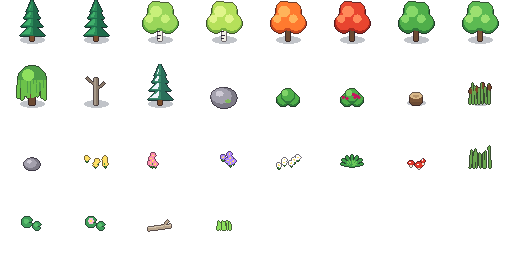
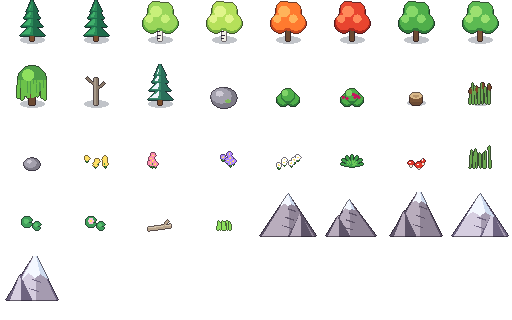
Style polish: mountain peaks, visible treasure shimmer, softer lights
- Rocky and snow-capped peak sprites fill mountain and snow tiles so
  impassable ranges read clearly; warmer, darker mountain ground.
- Treasure sparkles are larger and gold with a pulsing ground glow, so
  they stand out on bright grass.
- Sun glints are sparser and limited to deeper water.
- Campfire, store and lantern lights toned down (no more blow-out).
- Screenshot run adds a mountain view.

Claude-Session: https://claude.ai/code/session_011U55ru6jWp7NoTiif2KdmA

diff --git a/tools/gen_art.py b/tools/gen_art.py
@@ -257,11 +257,11 @@ def make_terrain():
                 tufts(img, rnd, rgb("#c2db76"), 10)
                 dots(img, rnd, [rgb("#8a8a7a")], 3, 2)
             elif tid == ROCKY:
-                img = ground(rgb("#a7ad8e"), 0.08, seed)
+                img = ground(rgb("#a9b388"), 0.08, seed)
                 dots(img, rnd, [rgb("#8d8f86"), rgb("#c9c9bd")], 10, 2)
                 tufts(img, rnd, rgb("#86b05a"), 6)
             elif tid == MOUNTAIN:
-                img = ground(rgb("#8c8494"), 0.1, seed)
+                img = ground(rgb("#7a6e80"), 0.1, seed)
                 for _ in range(4):  # cracks
                     x, y = rnd.randrange(T), rnd.randrange(T)
                     for k in range(rnd.randint(3, 6)):
@@ -681,6 +681,37 @@ def tuft(cv, rnd):
         cv.line(x, FY - 2, x + rnd.uniform(-2, 2), FY - 9 - rnd.uniform(0, 3), rgb("#8ee05e"), 1.2)
 
 
+def peak(cv, rnd, variant, snowy):
+    """A rocky mountain peak filling most of the cell, foot at FY."""
+    rock, rock_l, rock_d = rgb("#8f8496"), rgb("#b9adbd"), rgb("#5e5468")
+    if snowy:
+        rock, rock_l, rock_d = rgb("#a59bb0"), rgb("#d6cee0"), rgb("#6e6480")
+    w = [26, 22, 24][variant]
+    h = [42, 36, 46][variant]
+    px = FX + [0, -3, 3][variant]
+    base_y = FY + 4
+    top = (px, base_y - h)
+    cv.poly([(FX - w - 2, base_y), top, (FX + w + 2, base_y)], rock_d)
+    cv.poly([(FX - w, base_y), top, (px + 3, base_y)], rock_l)
+    cv.poly([(px + 1, base_y), top, (FX + w, base_y)], rock)
+    # secondary ridge
+    sx = FX + [12, -14, -12][variant]
+    sh = h * 0.55
+    cv.poly([(sx - 12, base_y), (sx, base_y - sh), (sx + 12, base_y)], rock_d)
+    cv.poly([(sx - 10, base_y), (sx, base_y - sh), (sx + 1, base_y)], rock_l)
+    # cracks / strata
+    for k in range(3):
+        y = base_y - h * (0.25 + k * 0.2)
+        cv.line(px - 6 + k * 3, y, px + 4 + k * 2, y + 3, rock_d, 1.0)
+    # snow cap
+    cap = h * (0.55 if snowy else 0.3)
+    t = cap / h
+    cv.poly([(px - w * t, top[1] + cap), top, (px + w * t, top[1] + cap),
+             (px + w * t * 0.4, top[1] + cap * 0.8), (px, top[1] + cap * 0.95),
+             (px - w * t * 0.5, top[1] + cap * 0.75)], rgb("#f4f8ff"))
+    cv.poly([(px + 1, top[1] + 2), top, (px + w * t, top[1] + cap), (px + w * t * 0.4, top[1] + cap * 0.8)], rgb("#cfdcf0"))
+
+
 # name -> (drawer, tall).  tall decor is y-sorted with the player.
 DECOR = [
     ("pine0", lambda c, r: tree_pine(c, r), True),
@@ -711,6 +742,11 @@ DECOR = [
     ("lilyflower", lambda c, r: lily(c, r, True), False),
     ("driftwood", driftwood, False),
     ("tuft", tuft, False),
+    ("peak0", lambda c, r: peak(c, r, 0, False), True),
+    ("peak1", lambda c, r: peak(c, r, 1, False), True),
+    ("peak2", lambda c, r: peak(c, r, 2, False), True),
+    ("snowpeak0", lambda c, r: peak(c, r, 0, True), True),
+    ("snowpeak1", lambda c, r: peak(c, r, 2, True), True),
 ]
 
 
@@ -722,7 +758,7 @@ def make_decor():
         cv = Canvas(64, 64)
         fn(cv, random.Random(i * 13 + 5))
         is_tree = name.startswith(("pine", "birch", "maple", "oak", "willow", "snow", "snag"))
-        sh = (FX, FY, 12, 3.5) if is_tree else ((FX, FY - 1, 9, 2.5) if tall else None)
+        sh = (FX, FY, 12, 3.5) if is_tree else ((FX, FY - 1, 9, 2.5) if tall and not name.startswith(("peak", "snowpeak")) else None)
         atlas.paste(cv.finish(True, sh), ((i % cols) * 64, (i // cols) * 64))
     atlas.save(OUT / "decor.png")
     # index list for GDScript
